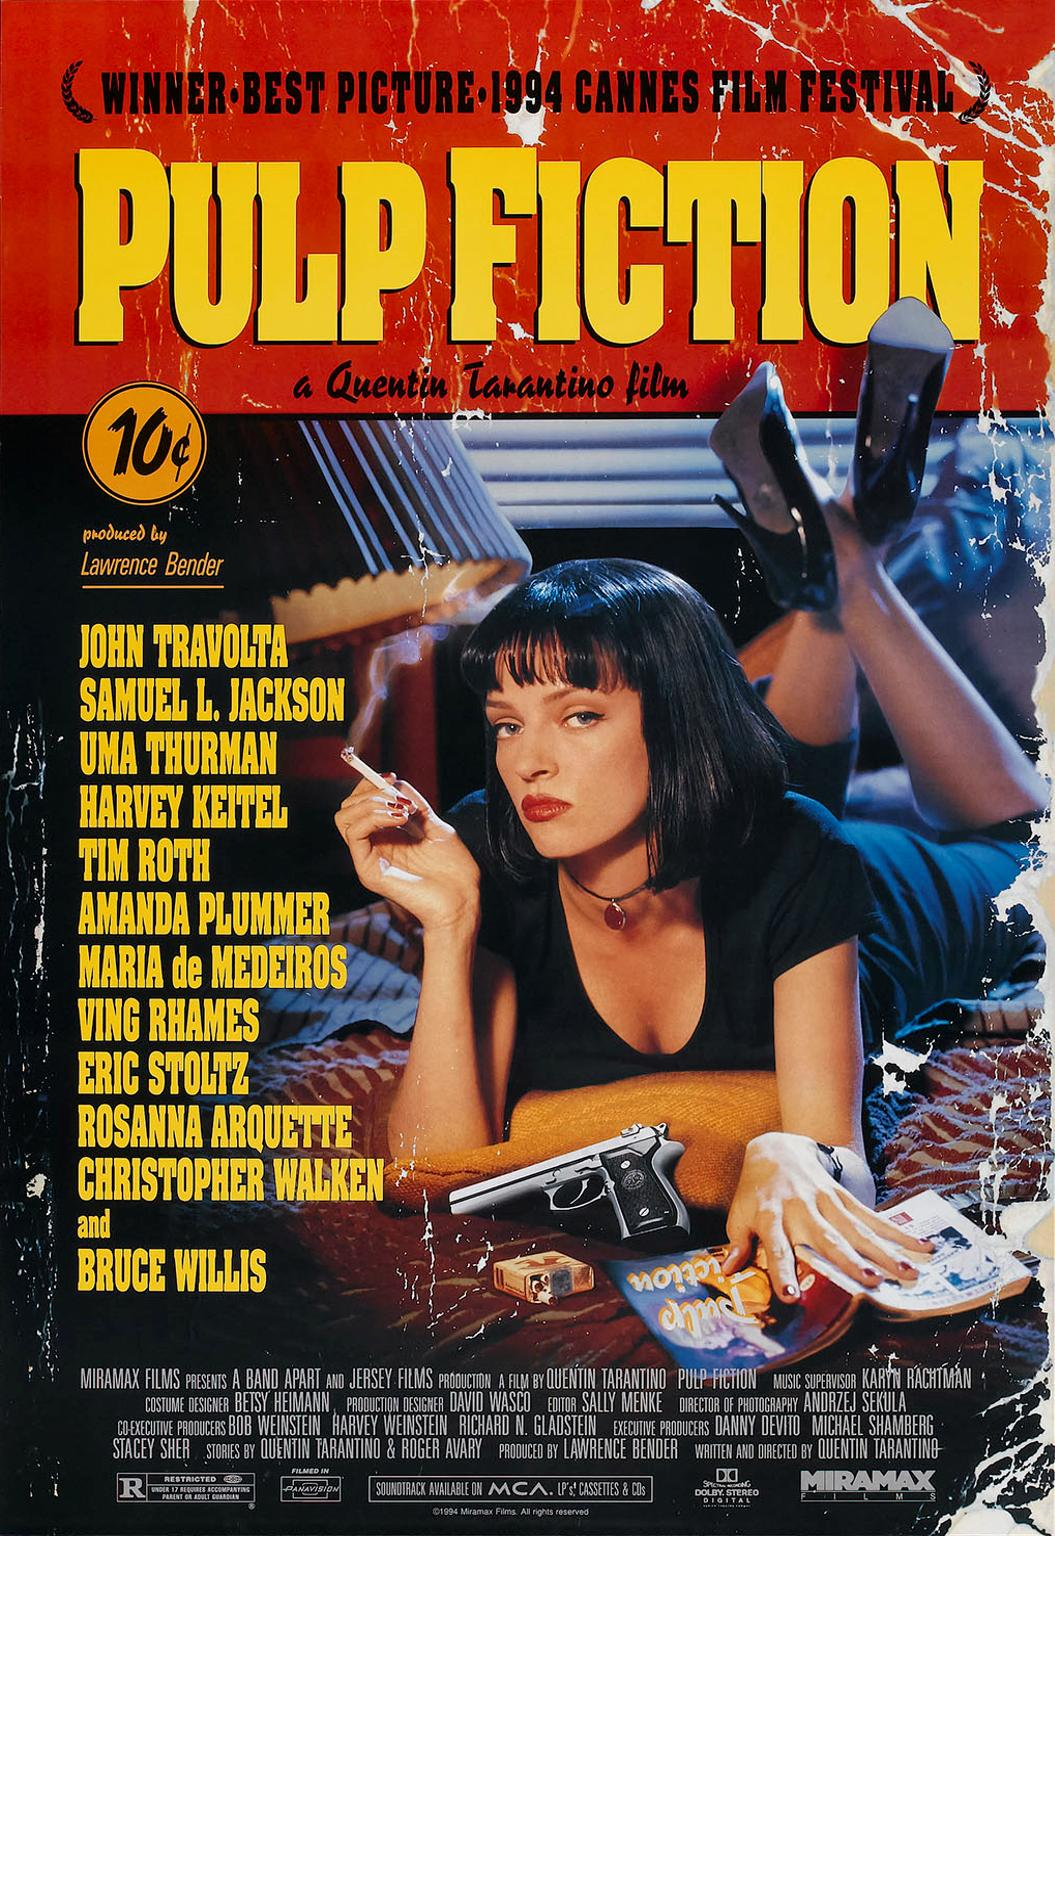
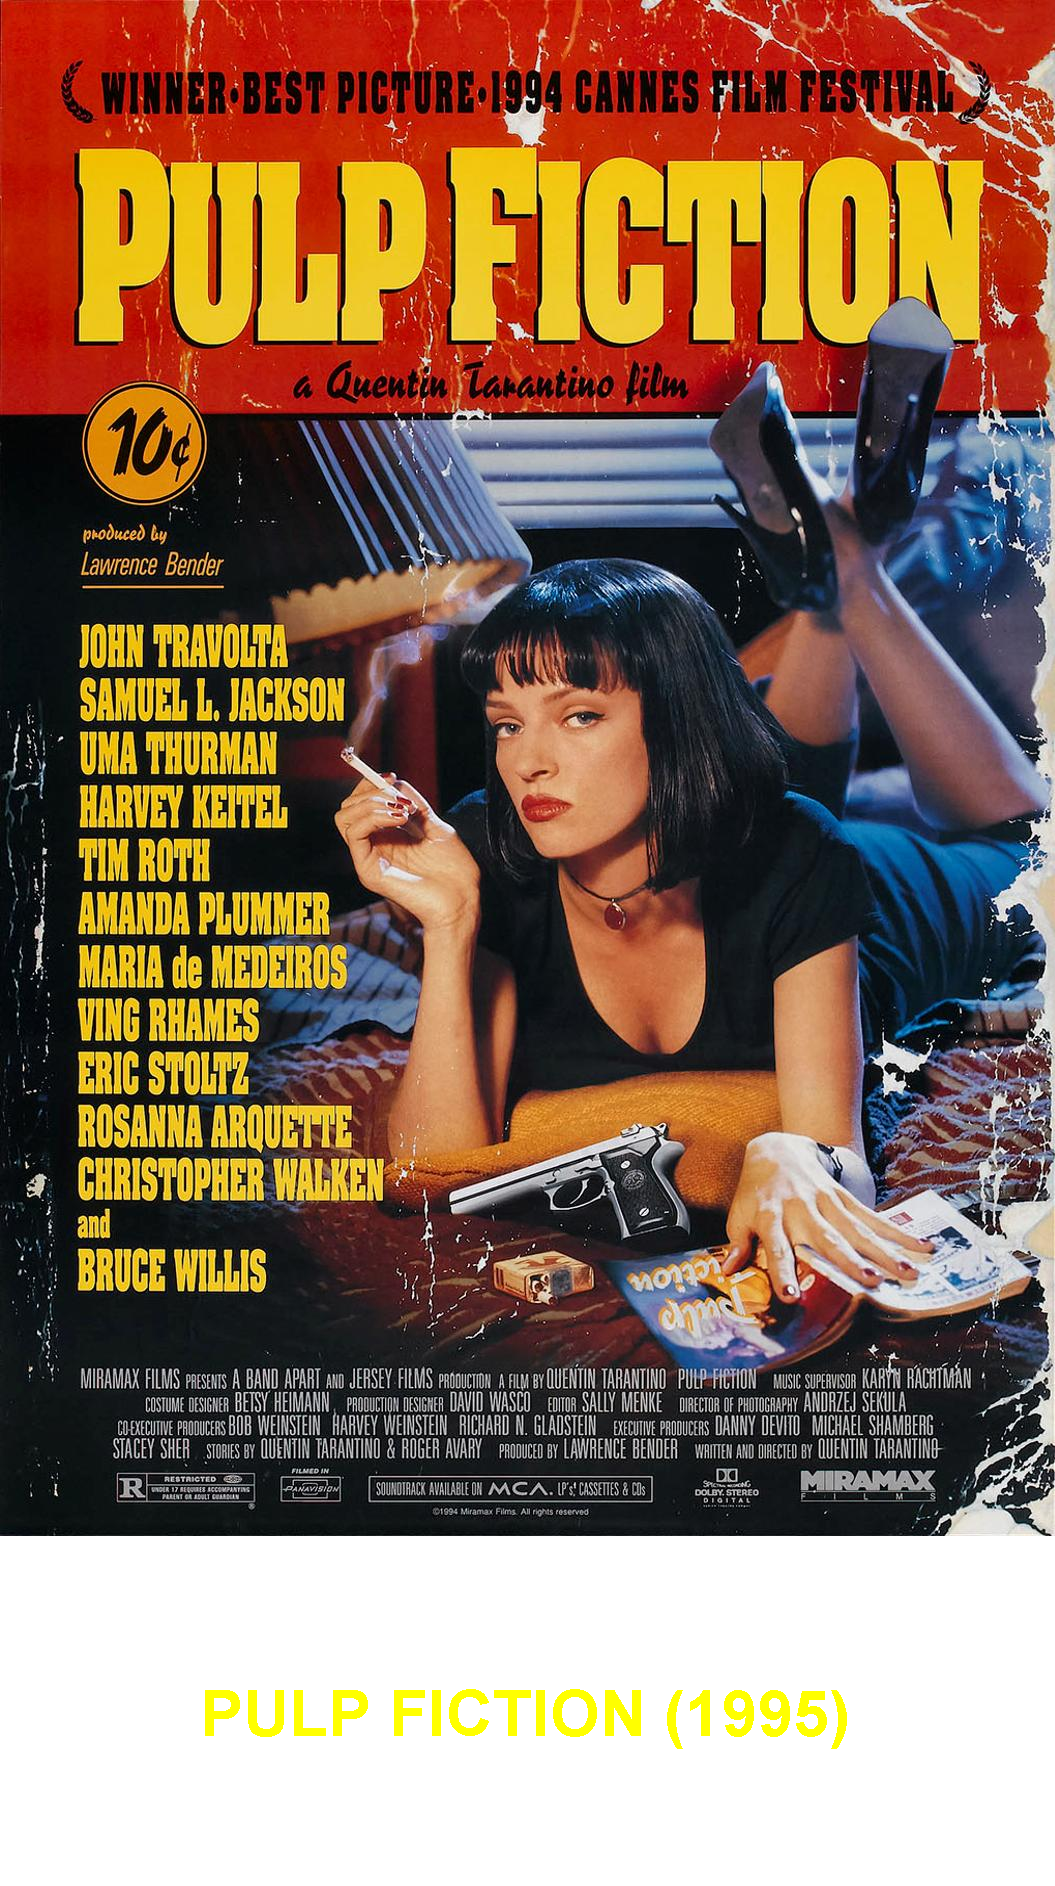
add write in the image funcionality

Changed region(s): [[0.182, 0.8918, 0.819, 0.9226]]

diff --git a/src/StickerGenerator.java b/src/StickerGenerator.java
@@ -1,3 +1,5 @@
+import java.awt.Color;
+import java.awt.Font;
 import java.awt.Graphics2D;
 import java.awt.image.BufferedImage;
 import java.io.File;
@@ -26,6 +28,14 @@ public class StickerGenerator {
 		Graphics2D graphics = (Graphics2D) newImage.getGraphics();
 		graphics.drawImage(originalImage, 0, 0, null);
 		
+		
+		//configurar a fonte
+		Font font = new Font(Font.SANS_SERIF, Font.BOLD, 64);
+		graphics.setColor(Color.YELLOW);
+		graphics.setFont(font);
+		
+		//escrever uma frase na nova imagem
+		graphics.drawString("PULP FICTION (1995)", 200, newHeight - 150);
 		
 		//escrever a nova imagem em um arquivo
 		ImageIO.write(newImage, "png", new File("saida/sticker.png"));
